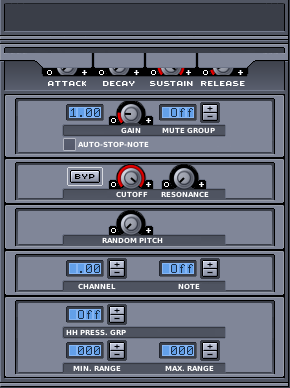
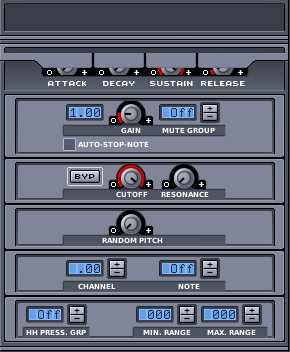
Same level instrument tab

diff --git a/src/gui/src/InstrumentEditor/InstrumentEditor.cpp b/src/gui/src/InstrumentEditor/InstrumentEditor.cpp
@@ -254,7 +254,7 @@ InstrumentEditor::InstrumentEditor( QWidget* pParent )
 	// HiHat setup
 
 	m_pHihatGroupLCD = new LCDDisplay( m_pInstrumentProp, LCDDigit::SMALL_BLUE, 4 );
-	m_pHihatGroupLCD->move( 67, 307 );
+	m_pHihatGroupLCD->move( 27, 307 );
 
 	m_pAddHihatGroupBtn = new Button(
 					m_pInstrumentProp,
@@ -263,7 +263,7 @@ InstrumentEditor::InstrumentEditor( QWidget* pParent )
 					"/lcd/LCDSpinBox_up_over.png",
 					QSize( 16, 8 )
 					);
-	m_pAddHihatGroupBtn->move( 109, 306 );
+	m_pAddHihatGroupBtn->move( 69, 306 );
 	connect( m_pAddHihatGroupBtn, SIGNAL( clicked(Button*) ), this, SLOT( hihatGroupClicked(Button*) ) );
 
 	m_pDelHihatGroupBtn = new Button(
@@ -273,11 +273,11 @@ InstrumentEditor::InstrumentEditor( QWidget* pParent )
 					"/lcd/LCDSpinBox_down_over.png",
 					QSize(16,8)
 					);
-	m_pDelHihatGroupBtn->move( 109, 315 );
+	m_pDelHihatGroupBtn->move( 69, 315 );
 	connect( m_pDelHihatGroupBtn, SIGNAL( clicked(Button*) ), this, SLOT( hihatGroupClicked(Button*) ) );
 
 	m_pHihatMinRangeLCD = new LCDDisplay( m_pInstrumentProp, LCDDigit::SMALL_BLUE, 4 );
-	m_pHihatMinRangeLCD->move( 67, 343 );
+	m_pHihatMinRangeLCD->move( 137, 307 );
 
 	m_pAddHihatMinRangeBtn = new Button(
 								 m_pInstrumentProp,
@@ -288,7 +288,7 @@ InstrumentEditor::InstrumentEditor( QWidget* pParent )
 								 false,
 								 true
 								 );
-	m_pAddHihatMinRangeBtn->move( 109, 342 );
+	m_pAddHihatMinRangeBtn->move( 179, 306 );
 	connect( m_pAddHihatMinRangeBtn, SIGNAL( clicked(Button*) ), this, SLOT( hihatMinRangeBtnClicked(Button*) ) );
 
 	m_pDelHihatMinRangeBtn = new Button(
@@ -300,12 +300,12 @@ InstrumentEditor::InstrumentEditor( QWidget* pParent )
 								 false,
 								 true
 								 );
-	m_pDelHihatMinRangeBtn->move( 109, 351 );
+	m_pDelHihatMinRangeBtn->move( 179, 315 );
 	connect( m_pDelHihatMinRangeBtn, SIGNAL( clicked(Button*) ), this, SLOT( hihatMinRangeBtnClicked(Button*) ) );
 
 
 	m_pHihatMaxRangeLCD = new LCDDisplay( m_pInstrumentProp, LCDDigit::SMALL_BLUE, 4 );
-	m_pHihatMaxRangeLCD->move( 160, 343 );
+	m_pHihatMaxRangeLCD->move( 202, 307 );
 
 	m_pAddHihatMaxRangeBtn = new Button(
 								 m_pInstrumentProp,
@@ -316,7 +316,7 @@ InstrumentEditor::InstrumentEditor( QWidget* pParent )
 								 false,
 								 true
 								 );
-	m_pAddHihatMaxRangeBtn->move( 202, 342 );
+	m_pAddHihatMaxRangeBtn->move( 244, 306 );
 	connect( m_pAddHihatMaxRangeBtn, SIGNAL( clicked(Button*) ), this, SLOT( hihatMaxRangeBtnClicked(Button*) ) );
 
 	m_pDelHihatMaxRangeBtn = new Button(
@@ -328,7 +328,7 @@ InstrumentEditor::InstrumentEditor( QWidget* pParent )
 								 false,
 								 true
 								 );
-	m_pDelHihatMaxRangeBtn->move( 202, 351 );
+	m_pDelHihatMaxRangeBtn->move( 244, 315 );
 	connect( m_pDelHihatMaxRangeBtn, SIGNAL( clicked(Button*) ), this, SLOT( hihatMaxRangeBtnClicked(Button*) ) );
 
 	//
